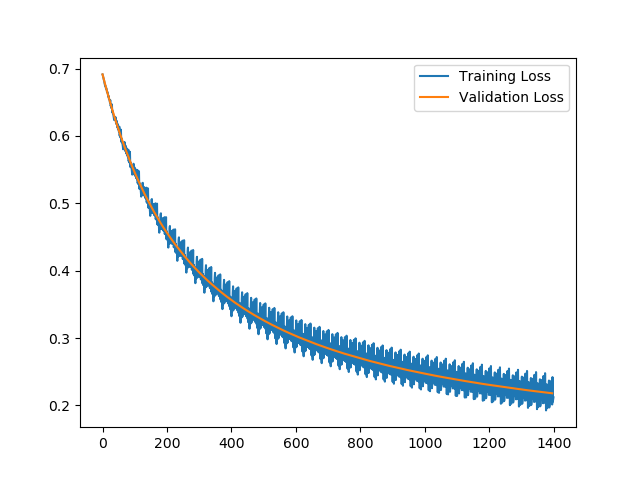
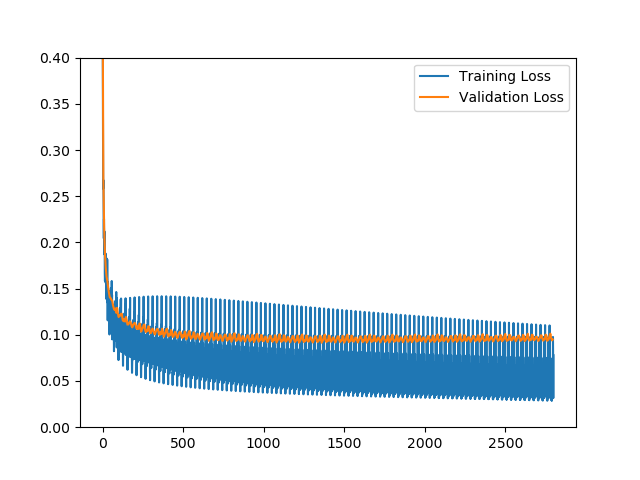
Fix mini gradient descent normalizing bug. Normalization/mean is already calculated in backward

diff --git a/assignment1/task2.py b/assignment1/task2.py
@@ -57,7 +57,7 @@ def train(
 
             # The mini-batch gradient descent algorithm for m batches and a single epoch. 
             model.backward(X_batch,model.forward(X_batch),Y_batch)
-            model.w = model.w-(learning_rate/batch_size)*model.grad
+            model.w = model.w-learning_rate*model.grad
 
             # Track training loss continuously
             _train_loss = cross_entropy_loss(Y_batch,model.forward(X_batch))
@@ -76,7 +76,7 @@ def train(
                 # Early stopping criteria    
                 if(_val_loss[0,0]>last_loss and already_failed>5):
                     # Stop early
-                    print("Early stopping kicked in...")
+                    print("Early stopping kicked in at epoch nr.:",epoch+1)
                     return model, train_loss, val_loss, train_accuracy, val_accuracy
                 elif(_val_loss[0,0]>last_loss): # Means failed this round but not consistently
                     already_failed += 1
@@ -100,7 +100,7 @@ X_test  = pre_process_images(X_test)
 X_val   = pre_process_images(X_val)
 
 # hyperparameters
-num_epochs = 50
+num_epochs = 500
 learning_rate = 0.2
 batch_size = 128
 l2_reg_lambda = 0  # [0 1.0, 0.1, 0.01, 0.001]
@@ -124,7 +124,7 @@ print("Test accuracy:", calculate_accuracy(X_test, Y_test, model))
 
 
 # Plot loss
-#plt.ylim([0., .4]) 
+plt.ylim([0., .4]) 
 utils.plot_loss(train_loss, "Training Loss")
 utils.plot_loss(val_loss, "Validation Loss")
 plt.legend()
@@ -133,7 +133,7 @@ plt.show()
 
 
 # Plot accuracy
-#plt.ylim([0.93, .99])
+plt.ylim([0.93, .99])
 utils.plot_loss(train_accuracy, "Training Accuracy")
 utils.plot_loss(val_accuracy, "Validation Accuracy")
 
